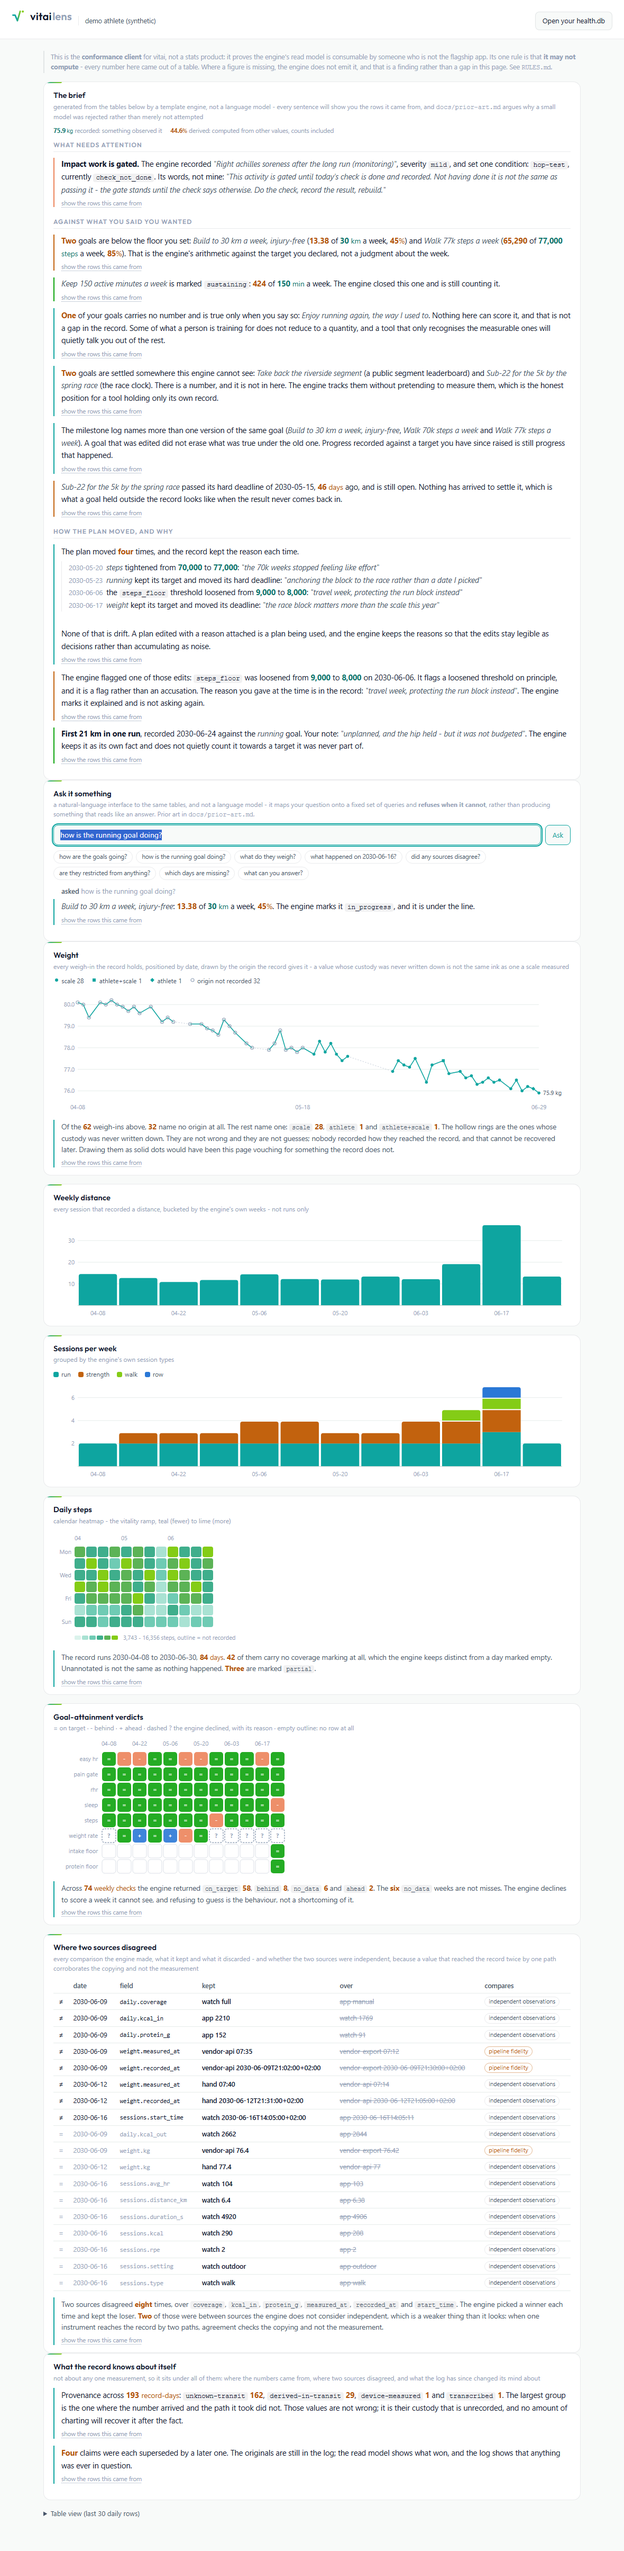
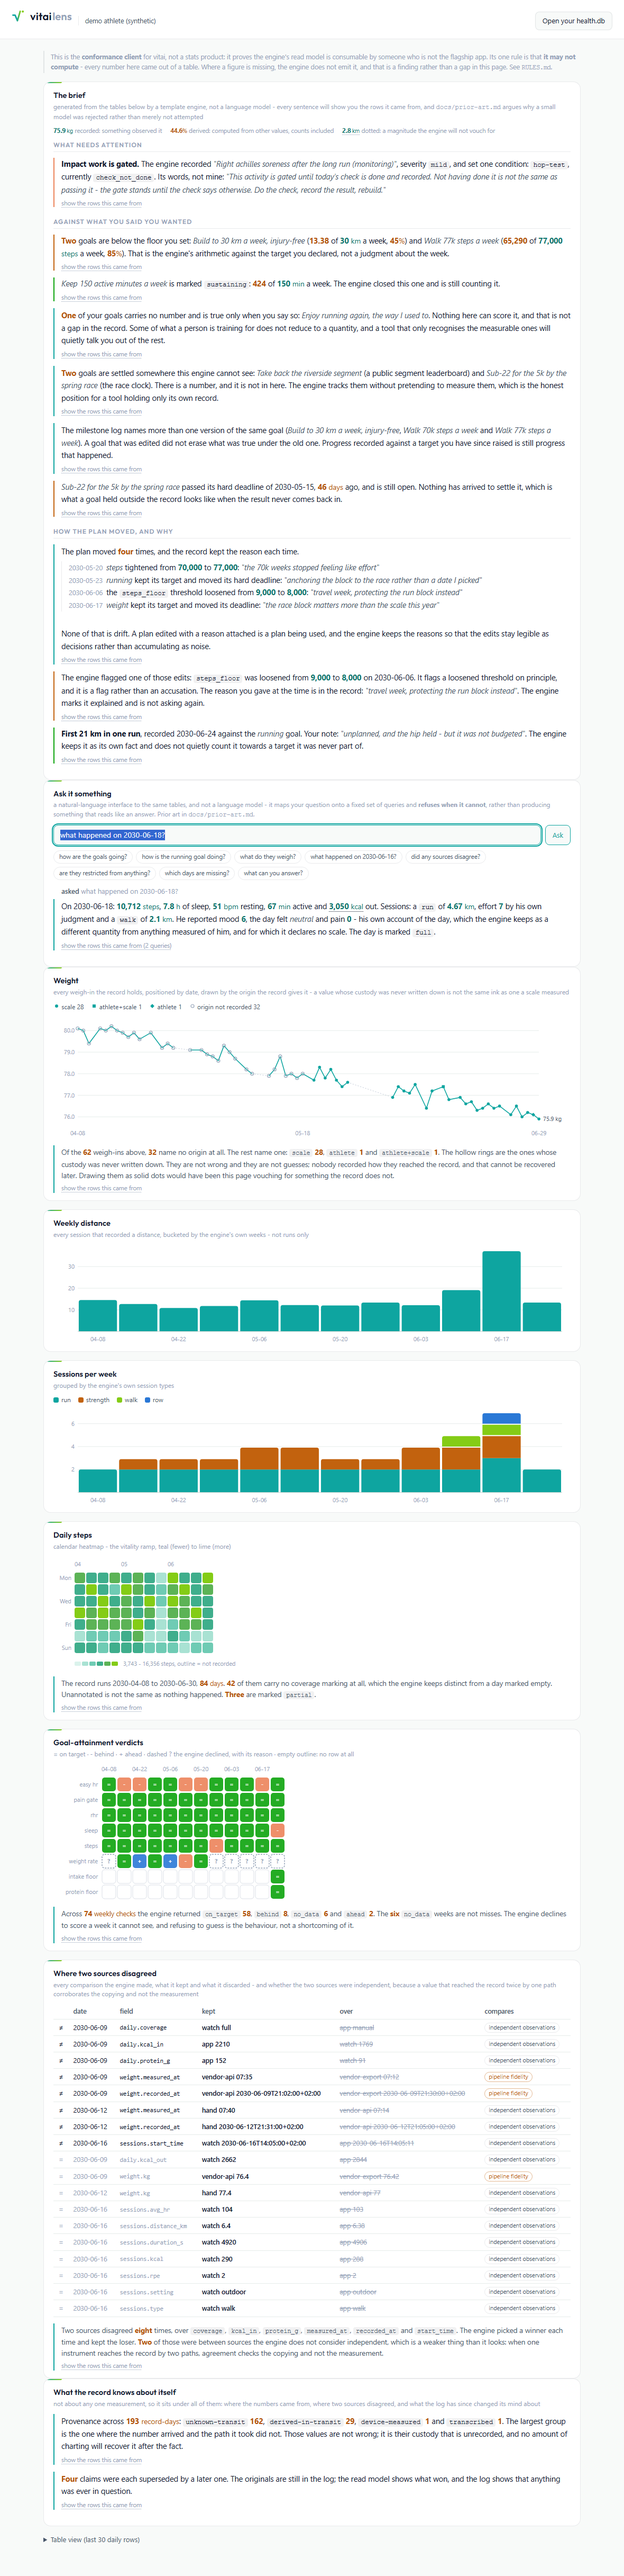
A third channel for soft magnitudes, and surface the subjective record
Colour answers where a number came from. How much it CLAIMS is a different
question and goes on a different channel, because stacking two questions
onto one channel is how a legible page becomes a cacophony.

So a dotted underline marks a magnitude the engine will not vouch for, and
it composes with either ink. It covers two cases that are the same claim:
modelled fields, where the record says the engine computed rather than
observed, and ordinal quantities, where it vouches for the ordering and not
the size. The table already marked the second; it is now the same mark
rather than a second dotted underline meaning the same thing elsewhere.

This is the only distinction on the page that is genuinely invisible in
prose. 2.8 km off a crosstrainer console reads exactly like 2.8 km
measured, and RULES.md has promised since the first audit that a modelled
value and a measured one may not be the same ink - a promise the charts
kept and the prose did not.

SUBJECTIVE VALUES ARE SURFACED AND DELIBERATELY NOT GIVEN INK. The lens
rendered none of them at all: 42 session RPEs, 84 pain readings, mood and
feel, all invisible, when G75 holds that they are a different quantity from
anything measured of the athlete. They now appear, named in words as his
own account of the day. Words are the right channel here - prose already
distinguishes "an RPE of 4" from "4 km", and a reader who does not know
what RPE is will not be helped by a colour.
[…]

Changed region(s): [[0.0915, 0.0311, 0.9153, 0.9963], [0.5186, 0.7161, 0.5492, 0.7472]]

diff --git a/ask.js b/ask.js
@@ -292,10 +292,11 @@ const Ask = (() => {
   intent("on-date", (q, s) => s.date ? 8 : 0,
     (q, s, query) => {
       const d = s.date.replace(/'/g, "''");
-      const sql = `SELECT date, steps, sleep_h, rhr, kcal_in, active_min, ` +
-                  `coverage, note FROM daily WHERE date = '${d}'`;
-      const sesSql = `SELECT type, distance_km, duration_s, avg_hr FROM ` +
-                     `sessions WHERE date = '${d}'`;
+      const sql = `SELECT date, steps, sleep_h, rhr, kcal_in, kcal_out, ` +
+                  `active_min, mood, feel, pain, coverage, modelled, note ` +
+                  `FROM daily WHERE date = '${d}'`;
+      const sesSql = `SELECT type, distance_km, duration_s, avg_hr, rpe, ` +
+                     `modelled FROM sessions WHERE date = '${d}'`;
       // BOTH queries are cited. This answer draws on two tables, and citing
       // only the first left the session distance traceable to nothing - the
       // same defect the brief's grounding test caught there, arriving here.
@@ -314,20 +315,62 @@ const Ask = (() => {
       if (day) {
         // Everything in `daily` was reported by a source, so these are all
         // recorded. Units take their symbol where one exists.
+        // `modelled` names the field the engine computed rather than
+        // observed, so the mark goes on exactly that field and not on its
+        // neighbours - kcal_out is usually modelled and steps is not.
+        const modelled = new Set(String(day.modelled || "").split(/[\s,]+/)
+                                 .filter(Boolean));
         for (const [k, unit, dp, tail] of [["steps", "steps", 0, ""],
                                            ["sleep_h", "h", 1, " of sleep"],
                                            ["rhr", "bpm", 0, " resting"],
-                                           ["active_min", "min", 0, " active"]]) {
-          if (day[k] !== null && day[k] !== undefined)
-            bits.push(N.rec(day[k], unit, dp) + tail);
+                                           ["active_min", "min", 0, " active"],
+                                           ["kcal_out", "kcal", 0, " out"]]) {
+          if (day[k] === null || day[k] === undefined) continue;
+          const f = N.rec(day[k], unit, dp);
+          bits.push((modelled.has(k)
+            ? N.soft(f, "The record marks this field modelled: the engine " +
+                        "computed it rather than observing it, so the " +
+                        "magnitude is not one it vouches for.")
+            : f) + tail);
         }
       }
-      const sessions = ses.map(x => `a <code>${esc(x.type)}</code>` +
-        (x.distance_km !== null ? ` of ${N.rec(x.distance_km, "km", 2)}` : ""));
+      const sessions = ses.map(x => {
+        const mod = new Set(String(x.modelled || "").split(/[\s,]+/).filter(Boolean));
+        const km = x.distance_km === null ? "" : (() => {
+          const f = N.rec(x.distance_km, "km", 2);
+          return ` of ` + (mod.has("distance_km")
+            ? N.soft(f, "Distance the engine modelled rather than measured - " +
+                        "an ergometer's conversion, not a distance travelled.")
+            : f);
+        })();
+        // RPE is the athlete's own judgment of effort, and the engine declares
+        // no scale for it. Stated in words rather than given an ink of its
+        // own: prose already distinguishes "an RPE of 4" from "4 km", and a
+        // reader who does not know what RPE is will not be helped by a colour.
+        const eff = x.rpe === null || x.rpe === undefined ? ""
+          : `, effort ${N.rec(x.rpe)} by his own judgment`;
+        return `a <code>${esc(x.type)}</code>${km}${eff}`;
+      });
+      // What the athlete said about the day, as against what was measured of
+      // it. G75: subjective and objective are different quantities, and the
+      // lens has been rendering none of the first kind at all.
+      const said = [];
+      if (day) {
+        if (day.mood !== null && day.mood !== undefined)
+          said.push(`mood ${N.rec(day.mood)}`);
+        if (day.feel) said.push(`the day felt <em>${esc(day.feel)}</em>`);
+        if (day.pain !== null && day.pain !== undefined)
+          said.push(`pain ${N.rec(day.pain)}`);
+      }
       return {
         text: `On ${esc(s.date)}: ` +
               (bits.length ? N.listify(bits) : "no daily figures") +
               (sessions.length ? `. Sessions: ${N.listify(sessions)}.` : ".") +
+              (said.length
+                ? ` He reported ${N.listify(said)} - his own account of the ` +
+                  `day, which the engine keeps as a different quantity from ` +
+                  `anything measured of him, and for which it declares no scale.`
+                : ``) +
               (day && day.coverage
                 ? ` The day is marked <code>${esc(day.coverage)}</code>.`
                 : ` The day carries no coverage marking, which the engine keeps ` +

diff --git a/index.html b/index.html
@@ -150,8 +150,13 @@
   .absent { color: var(--ink-mut); font-style: italic; font-size: 12px; }
   /* An ordinal-only quantity: the engine vouches for the ordering, not the
      magnitude. Marked in the cell rather than in a footnote, because a reader
-     who has to remember a footnote will read the number as exact. */
-  .ordinal { color: var(--ink-2); border-bottom: 1px dotted var(--ink-mut);
+     who has to remember a footnote will read the number as exact.
+
+     This is the SAME claim `.soft` makes in prose - "the engine does not
+     vouch for this magnitude" - so it is the same mark. Two dotted underlines
+     meaning the same thing in two places would be a reader's problem, not a
+     distinction. */
+  .ordinal { color: var(--ink-2); border-bottom: 1px dotted currentColor;
              cursor: help; }
   .note { color: var(--ink-mut); font-size: 12.5px; line-height: 1.5;
           border-left: 2px solid var(--border); padding: 2px 0 2px 12px;
@@ -230,6 +235,11 @@
   .u { font-weight: 400; font-size: 0.94em; }
   .u-recorded { color: var(--num-recorded); }
   .u-derived  { color: var(--num-derived); }
+  /* A magnitude the engine will not vouch for: modelled, or ordinal. A SECOND
+     CHANNEL, not a third colour - colour answers where a number came from,
+     this answers how much it claims, and putting both on one channel is what
+     turns a legible page into a cacophony. Composes with either ink. */
+  .soft { border-bottom: 1px dotted currentColor; cursor: help; }
   /* The key, so the colours are a stated convention rather than decoration a
      reader has to infer. */
   .numkey { display: flex; gap: 16px; flex-wrap: wrap;
@@ -326,6 +336,9 @@
         recorded: something observed it</span>
       <span><b class="n n-derived">44.6</b><span class="u u-derived">%</span>
         derived: computed from other values, counts included</span>
+      <span><span class="soft"><b class="n n-recorded">2.8</b>&#8201;<span
+        class="u u-recorded">km</span></span> dotted: a magnitude the engine
+        will not vouch for</span>
     </p>
     <div class="brief" id="brief"></div></div>
   <div class="card" id="ask-card"><h2>Ask it something</h2>

diff --git a/narrator.js b/narrator.js
@@ -120,6 +120,25 @@ const Narrator = (() => {
     return `<b class="n n-${kind}">${num(value, dp)}</b>` +
            (u ? `${sep}<span class="u u-${kind}">${esc(u)}</span>` : "");
   }
+  /* A THIRD channel, and deliberately not a third colour.
+   *
+   * Colour answers "where did this number come from". This answers a different
+   * question - "how much does it claim" - and stacking a second question onto
+   * the same channel is how a legible page becomes a cacophony. So it is a
+   * dotted underline, and it composes with either colour.
+   *
+   * It marks the one class of number that is invisible in prose: a magnitude
+   * the engine will not vouch for. 2.8 km off a crosstrainer console looks
+   * exactly like 2.8 km measured, and `modelled` is the record saying it is
+   * not. Ordinal quantities are the same claim - the engine vouches for the
+   * ORDER and not the size - so they share the mark rather than earning
+   * another one.
+   *
+   * The reason is in the title attribute, because a mark without a reason is
+   * decoration a reader has to guess at. */
+  const soft = (html, why) =>
+    `<span class="soft" title="${esc(why)}">${html}</span>`;
+
   const rec = (v, unit, dp) => figure(v, "recorded", unit, dp);
   const der = (v, unit, dp) => figure(v, "derived", unit, dp);
   const pct = (v) => figure(v, "derived", "%", 0);
@@ -622,8 +641,8 @@ const Narrator = (() => {
   }
 
   return { generate, RULES, SECTIONS,
-           _internal: { listify, plural, num, count, quantity,
-                        figure, rec, der, pct, derCount, UNIT } };
+           _internal: { listify, plural, num, count, quantity, esc,
+                        figure, rec, der, pct, derCount, soft, UNIT } };
 })();
 
 if (typeof module !== "undefined" && module.exports) module.exports = Narrator;

diff --git a/RULES.md b/RULES.md
@@ -67,6 +67,27 @@ The inks are NOT the chart series colours. `#0ea5a0` is 3.0:1 on white, which is
 
 Tables are left alone. The distinction earns its noise where the two kinds sit in one sentence; in the resolution table every value is a recorded one, so colouring them all would say nothing and cost legibility.
 
+### A third channel, not a third colour
+
+Colour answers *where did this number come from*. A second question - *how much does it claim* - goes on a different channel, because stacking two questions onto one channel is how a legible page becomes a cacophony.
+
+So a **dotted underline** marks a magnitude the engine will not vouch for, and it composes with either ink. It covers two cases that are the same claim:
+
+- **modelled** - the record says the engine computed the field rather than observing it. 2.8 km off a crosstrainer console looks exactly like 2.8 km measured, and this is the only distinction on the page that is genuinely invisible in prose.
+- **ordinal** - the engine vouches for the ordering and not the size. The table already marked these; it is now the same mark rather than a second dotted underline meaning the same thing somewhere else.
+
+### What is deliberately NOT given ink
+
+**Subjective values.** Mood, pain and RPE are a different quantity from anything measured of the athlete (G75), and the lens rendered none of them at all until now. But prose already distinguishes "an RPE of 4" from "4 km", and a reader who does not know what RPE is will not be helped by a colour. They are surfaced and named in words instead - *"his own account of the day"* - and the answer says the engine declares no scale for them, because it does not.
+
+**Intervals.** An interval is its own marking: rendering `76.4 (75.9-76.9)` says more than any decoration could, and rendering a bare number with a badge meaning "there was an interval" would be strictly worse.
+
+**Contested values.** Every value the resolution table adjudicated could be marked, which in practice means marking most of the record. That surface has its own card, where the comparison can be shown rather than gestured at.
+
+**Per-number provenance.** Where a number came from is already answered in the weight chart's marks, the tooltips, and the resolution table. Repeating it in prose would need a third and fourth ink for a question that has three homes already.
+
+The test for adding a mark: **does confusing the two lead a reader to a wrong conclusion about their own body?** Recorded against derived passes it. Modelled against measured passes it. The rest do not, and a page that marks everything has marked nothing.
+
 ## Answering questions, and the three it will not answer
 
 `ask.js` takes a typed question and answers it in prose. It runs on the same rule as the narrator, with the same trace control, and it is deliberately built to look like the chat box everyone already knows - because the point is that it looks like one and behaves differently at the edges.
